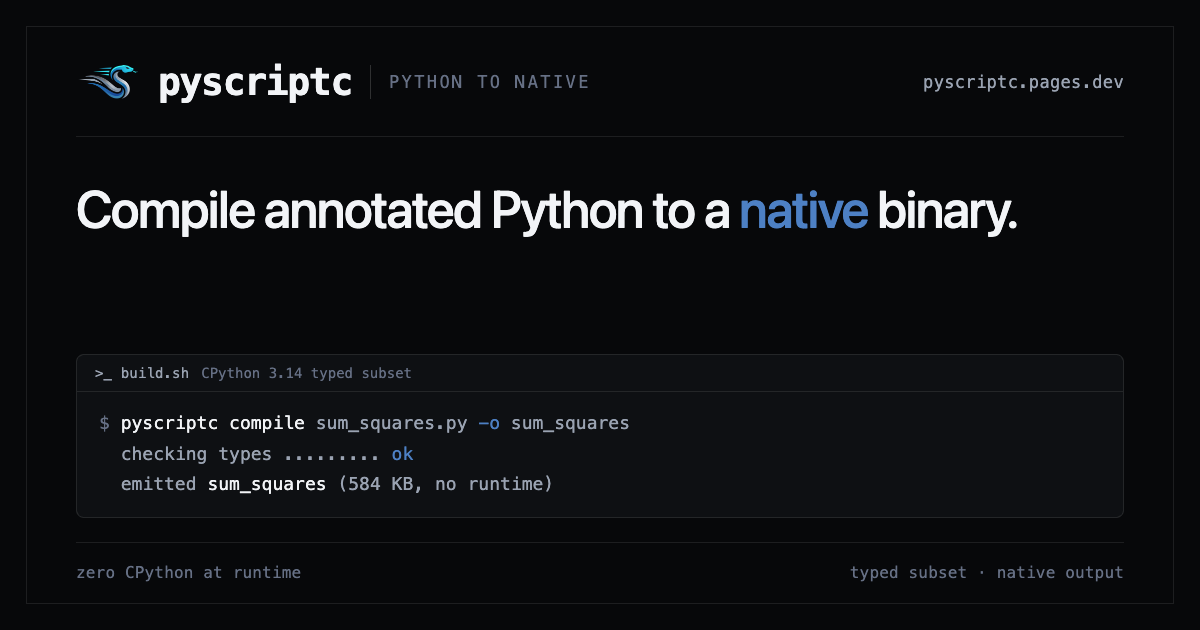
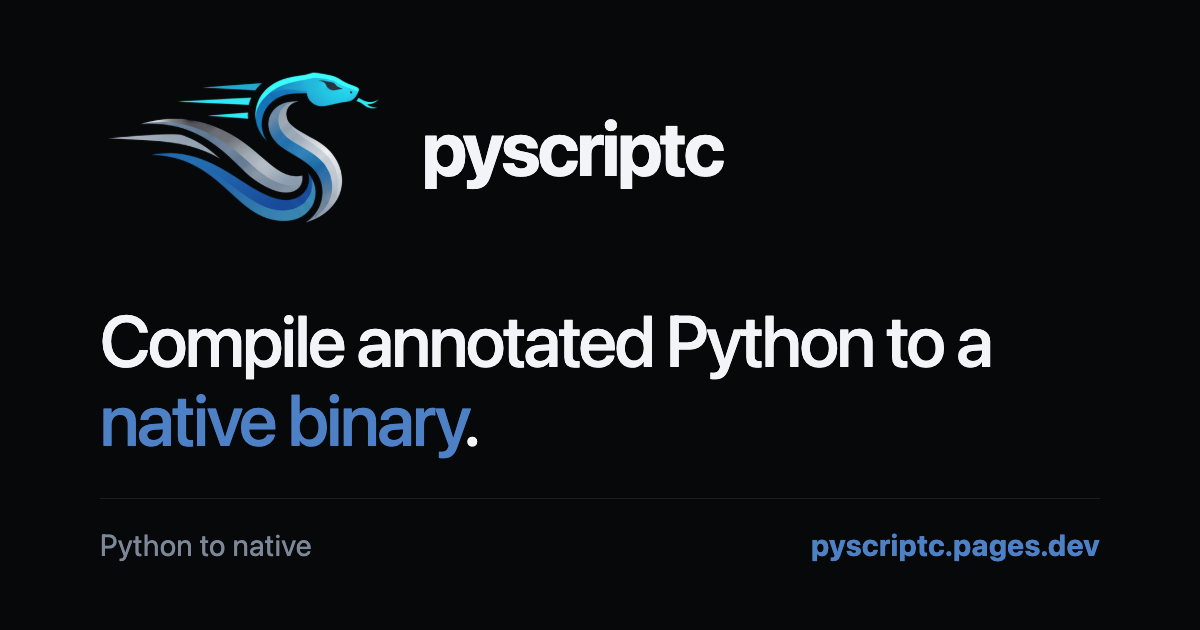
feat(site): sparse brioso-style Open Graph card
The card is read as a small preview in messaging and social apps, so the
terminal snippet is gone: it carried small mono text that does not survive
a 300px-wide render. The card is now a large logo mark, a large wordmark,
one short tagline ("Compile annotated Python to a native binary.") and a
single footer line, with the key content inside the centre 1000x500 safe
area and nothing under 28px. The render guard now measures the new blocks.

diff --git a/apps/web/og/og-image.html b/apps/web/og/og-image.html
@@ -9,31 +9,33 @@
 
       Regenerate:
 
-        pnpm --dir apps/web run og:image
+        node og/render.mjs
 
       The script serves this file, screenshots the element at 1200x630 with
       the system browser through playwright-cli, and writes the PNG. Nothing
       here is random: same template, same bytes. The script also fails if the
-      card overflows 630px, so a copy edit cannot silently clip the snippet.
+      card overflows 630px, so a copy edit cannot silently clip the headline.
 
-      Every color is a token from src/styles/theme.css, so the card follows the
-      site palette. The logo mark comes from public/logo-512.png.
+      Layout, sized for the smallest preview a messaging app renders: the
+      logo mark and the wordmark up top, one short tagline set large, one
+      footer line. Nothing on the card is under 28px, there is no terminal
+      block and no small mono text, because none of that survives a 300px
+      preview. Key content stays inside the centre 1000x500 safe area
+      (100px side margins, 68px top and bottom).
+
+      Every color is a token from src/styles/theme.css, so the card follows
+      the site palette. The accent is the logo snake's deep blue and it is the
+      only chromatic color on the card.
     -->
     <style>
       :root {
         --bg: #07080a;
-        --surface: #0e1013;
-        --hairline: rgba(255, 255, 255, 0.09);
-        --hairline-strong: rgba(255, 255, 255, 0.16);
         --ink: #f2f4f7;
-        --ink-secondary: #9aa3b2;
-        --ink-muted: #667085;
+        --ink-muted: #7c8798;
         --accent: #4d80c4;
-        --motion-teal: #31e8f5;
+        --hairline: rgba(255, 255, 255, 0.09);
         --font-sans: -apple-system, BlinkMacSystemFont, "Segoe UI", Roboto,
           "Helvetica Neue", Arial, sans-serif;
-        --font-mono: ui-monospace, SFMono-Regular, Menlo, Monaco, Consolas,
-          "Liberation Mono", "Courier New", monospace;
       }
 
       * {
@@ -53,7 +55,7 @@
         position: relative;
         width: 1200px;
         height: 630px;
-        padding: 50px 76px 48px;
+        padding: 68px 100px;
         display: flex;
         flex-direction: column;
         background: var(--bg);
@@ -62,134 +64,47 @@
         overflow: hidden;
       }
 
-      /* A single hairline frame. No gradient, no glow, no aurora. */
-      .frame {
-        position: absolute;
-        inset: 26px;
-        border: 1px solid var(--hairline);
-        pointer-events: none;
-      }
-
       .masthead {
         display: flex;
         align-items: center;
-        justify-content: space-between;
-        padding-bottom: 22px;
-        border-bottom: 1px solid var(--hairline);
+        gap: 34px;
+        height: 160px;
       }
 
       .brand {
         display: flex;
         align-items: center;
-        gap: 18px;
+        gap: 34px;
       }
 
+      /* The mark keeps its 512x284 aspect; the snake reads at any size
+         because it is one continuous high-contrast stroke. */
       .brand img {
-        width: 64px;
-        height: 64px;
+        width: 288px;
+        height: 160px;
         object-fit: contain;
       }
 
       .wordmark {
-        font-family: var(--font-mono);
-        font-size: 38px;
+        font-size: 76px;
         font-weight: 700;
         letter-spacing: -0.035em;
+        line-height: 1;
         color: var(--ink);
-      }
-
-      .rule {
-        width: 1px;
-        height: 34px;
-        background: var(--hairline-strong);
-      }
-
-      .kind {
-        font-family: var(--font-mono);
-        font-size: 17px;
-        font-weight: 500;
-        letter-spacing: 0.14em;
-        text-transform: uppercase;
-        color: var(--ink-muted);
-      }
-
-      .url {
-        font-family: var(--font-mono);
-        font-size: 17px;
-        letter-spacing: 0.02em;
-        color: var(--ink-secondary);
       }
 
       .pitch {
-        margin-top: 42px;
-        font-size: 52px;
-        line-height: 1.14;
-        letter-spacing: -0.028em;
+        margin-top: auto;
+        font-size: 72px;
+        line-height: 1.1;
+        letter-spacing: -0.03em;
         font-weight: 500;
         color: var(--ink);
-        max-width: 30ch;
+        max-width: 1000px;
       }
 
       .pitch em {
         font-style: normal;
-        color: var(--accent);
-      }
-
-      .terminal {
-        margin-top: auto;
-        border: 1px solid var(--hairline);
-        border-radius: 8px;
-        background: var(--surface);
-        overflow: hidden;
-      }
-
-      .terminal-bar {
-        display: flex;
-        align-items: center;
-        gap: 12px;
-        padding: 10px 18px;
-        border-bottom: 1px solid var(--hairline);
-      }
-
-      .terminal-tab {
-        font-family: var(--font-mono);
-        font-size: 14px;
-        letter-spacing: 0.01em;
-        color: var(--ink-secondary);
-      }
-
-      .terminal-target {
-        font-family: var(--font-mono);
-        font-size: 14px;
-        color: var(--ink-muted);
-      }
-
-      .terminal-body {
-        padding: 16px 22px 18px;
-        font-family: var(--font-mono);
-        font-size: 18px;
-        line-height: 1.68;
-      }
-
-      .line {
-        display: block;
-        white-space: pre;
-        color: var(--ink-secondary);
-      }
-
-      .line .prompt {
-        color: var(--ink-muted);
-      }
-
-      .line .cmd {
-        color: var(--ink);
-      }
-
-      .line .flag {
-        color: var(--accent);
-      }
-
-      .line .ok {
         color: var(--accent);
       }
 
@@ -198,50 +113,37 @@
         align-items: baseline;
         justify-content: space-between;
         gap: 32px;
-        margin-top: 24px;
-        padding-top: 20px;
+        margin-top: 40px;
+        padding-top: 28px;
         border-top: 1px solid var(--hairline);
+        font-size: 30px;
+        letter-spacing: 0.01em;
       }
 
       .note {
-        font-family: var(--font-mono);
-        font-size: 16px;
-        letter-spacing: 0.01em;
         color: var(--ink-muted);
+      }
+
+      .url {
+        font-weight: 700;
+        color: var(--accent);
       }
     </style>
   </head>
   <body>
     <div class="card" id="og-card">
-      <div class="frame"></div>
-
       <div class="masthead">
         <div class="brand">
           <img src="/public/logo-512.png" alt="pyscriptc" />
           <div class="wordmark">pyscriptc</div>
-          <div class="rule"></div>
-          <div class="kind">Python to native</div>
-        </div>
-        <div class="url">pyscriptc.pages.dev</div>
-      </div>
-
-      <h1 class="pitch">Compile annotated Python to a <em>native</em> binary.</h1>
-
-      <div class="terminal">
-        <div class="terminal-bar">
-          <span class="terminal-tab">&gt;_ build.sh</span>
-          <span class="terminal-target">CPython 3.14 typed subset</span>
-        </div>
-        <div class="terminal-body">
-          <span class="line"><span class="prompt">$ </span><span class="cmd">pyscriptc compile</span> sum_squares.py <span class="flag">-o</span> sum_squares</span>
-          <span class="line">  checking types ......... <span class="ok">ok</span></span>
-          <span class="line">  emitted <span class="cmd">sum_squares</span> (584 KB, no runtime)</span>
         </div>
       </div>
+
+      <h1 class="pitch">Compile annotated Python to a <em>native binary</em>.</h1>
 
       <div class="footer">
-        <span class="note">zero CPython at runtime</span>
-        <span class="note">typed subset · native output</span>
+        <span class="note">Python to native</span>
+        <span class="url">pyscriptc.pages.dev</span>
       </div>
     </div>
   </body>

diff --git a/apps/web/og/README.md b/apps/web/og/README.md
@@ -26,6 +26,17 @@ deployed site reads.
 
 Every color is a token mirrored from `src/styles/theme.css` (the obsidian
 canvas, the ink ladder, the logo blue). Keep it that way: the card must follow
-the site palette. The compile snippet in the terminal is illustrative but its
-shape is real: `pyscriptc compile sum_squares.py -o sum_squares` is the
-documented quickstart command and prints the binary path on stdout.
+the site palette.
+
+The card is read as a small preview in messaging and social apps, so it is
+deliberately sparse: a large logo mark, the wordmark, one short tagline and a
+single footer line. Nothing on it is under 28px, there is no terminal block
+and no small mono text, because none of that survives a 300px-wide preview.
+Keep the key content inside the centre 1000x500 safe area.
+
+## Copy
+
+The tagline must stay true to what the compiler does. Do not claim "zero
+CPython at runtime" or "no runtime": the opt-in island fallback tier embeds
+CPython, so a standalone binary carries no runtime for the compiled subset,
+but the product as a whole is not runtime-free.
